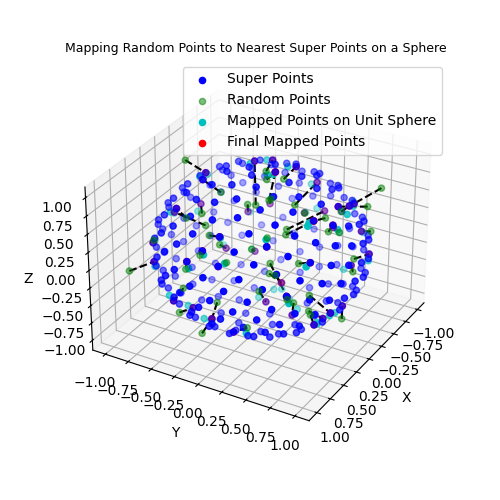
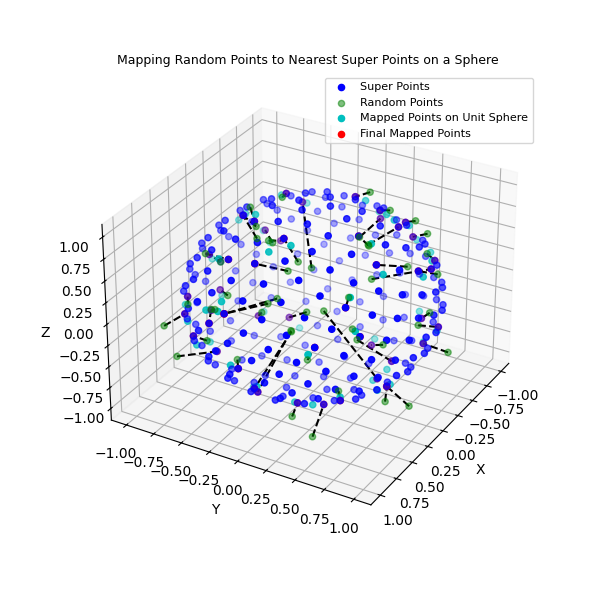
hyperball clustering

diff --git a/source/ch0-math/hyperball_3d_clustering.py b/source/ch0-math/hyperball_3d_clustering.py
@@ -3,6 +3,7 @@ import numpy as np
 import matplotlib.pyplot as plt
 from scipy.spatial import cKDTree
 from mpl_toolkits.mplot3d import Axes3D
+from hiq import deterministic
 
 # 获取脚本文件名（不包含扩展名）
 script_name = os.path.splitext(os.path.basename(__file__))[0]
@@ -41,7 +42,7 @@ _, indices = tree.query(mapped_points)
 final_mapped_points = super_points[indices]
 
 # 绘制图形
-fig = plt.figure(figsize=(5, 5))
+fig = plt.figure(figsize=(6, 6))
 ax = fig.add_subplot(111, projection='3d')
 ax.scatter(super_points[:, 0], super_points[:, 1], super_points[:, 2], c='b', label='Super Points')  # 超级点
 ax.scatter(random_points[:, 0], random_points[:, 1], random_points[:, 2], c='g', alpha=0.5, label='Random Points')  # 随机点
@@ -59,7 +60,7 @@ ax.set_title('Mapping Random Points to Nearest Super Points on a Sphere', fontsi
 ax.set_xlabel('X')
 ax.set_ylabel('Y')
 ax.set_zlabel('Z')
-ax.legend()
+ax.legend(fontsize=8)
 plt.grid(True)
 
 save_figure(fig, script_name, imgnum)

diff --git a/source/ch0-math/circle.py b/source/ch0-math/circle.py
@@ -34,7 +34,7 @@ _, indices = tree.query(mapped_points)
 final_mapped_points = super_points[indices]
 
 # 绘制图形
-fig = plt.figure(figsize=(4, 4))
+fig = plt.figure(figsize=(6, 6))
 plt.plot(super_points[:, 0], super_points[:, 1], 'bo', label='Super Points')  # 超级点
 plt.plot(random_points[:, 0], random_points[:, 1], 'go', label='Random Points', alpha=0.5)  # 随机点
 plt.plot(mapped_points[:, 0], mapped_points[:, 1], 'co', label='Mapped Points on Unit Circle')  # 映射到单位圆上的点
@@ -51,7 +51,7 @@ plt.gca().set_aspect('equal')  # 确保圆形比例
 plt.title('Mapping Random Points to Nearest Super Points on a Circle', fontsize=9)
 plt.xlabel('x')
 plt.ylabel('y')
-plt.legend()
+plt.legend(fontsize='small')
 plt.grid(True)
 save_figure(fig, script_name, imgnum)
 plt.show()
